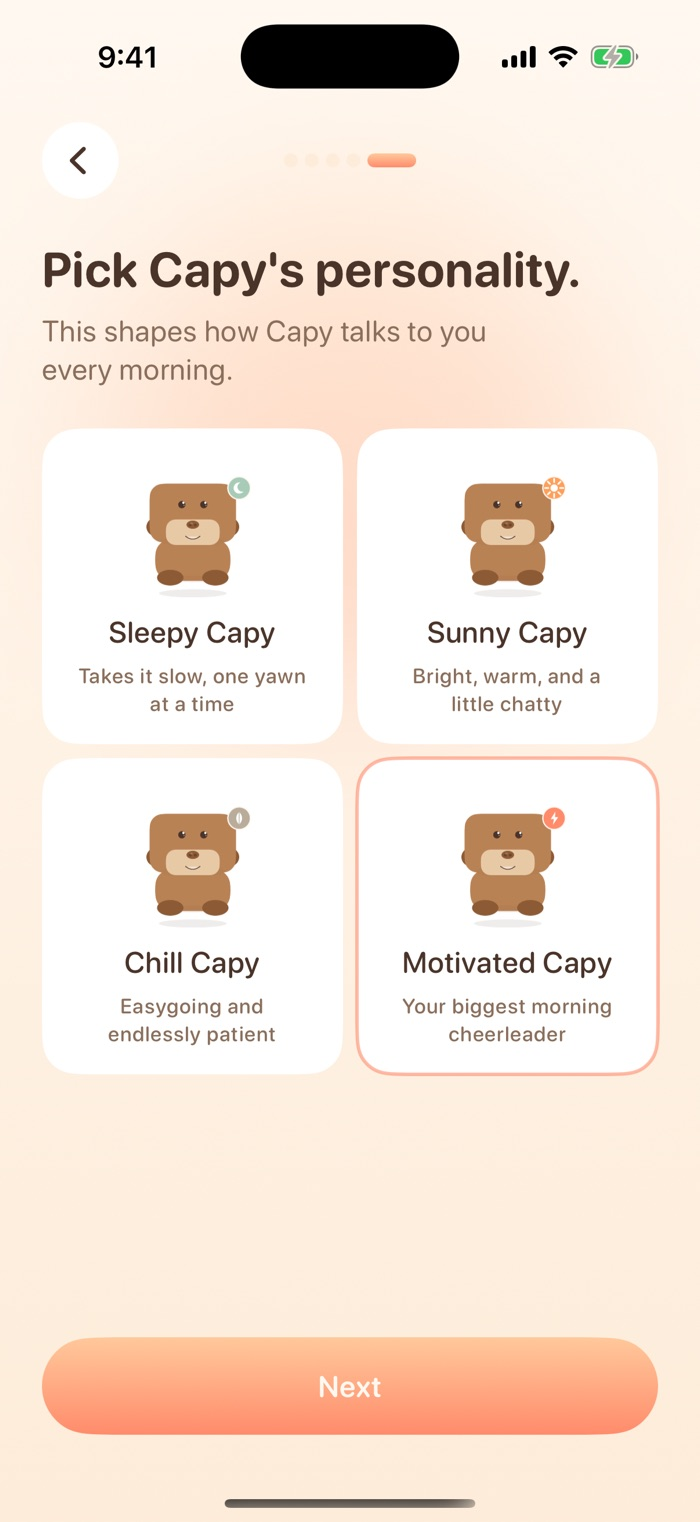
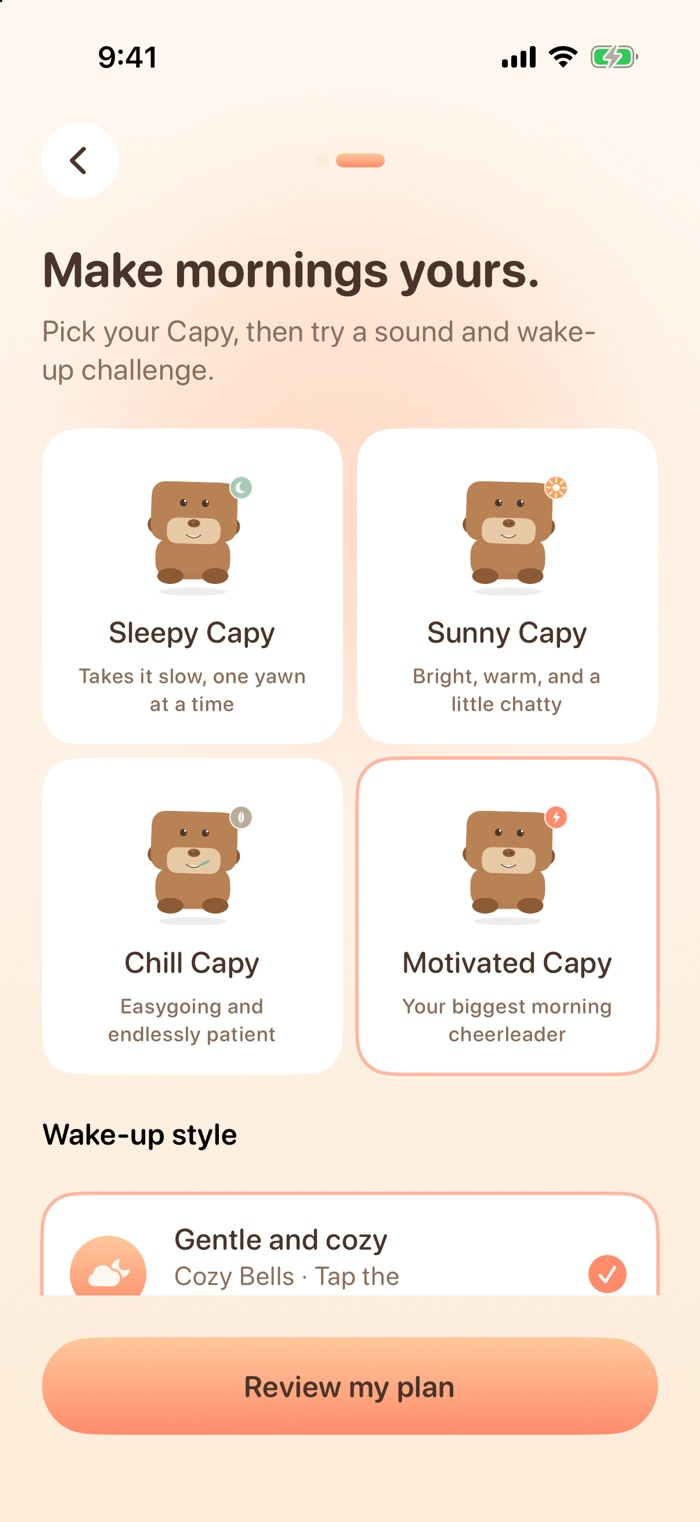
Update site for Rise & Capy 1.3: free to start, one-time Capy Pro
The app is now free to start with one alarm; the existing $9.99
one-time purchase becomes Capy Pro (unlimited alarms and the pattern,
shake, and question missions). Update the homepage hero, price tile,
pricing section, FAQ, structured data, Terms, and Privacy to match, and
note that earlier buyers already have Pro.

Replace the welcome, personality, and paywall screenshots with the
1.3 screens, and show "Free" plus a "Pay once for Pro" chip in the
reel's pricing scene. The reel audio is unchanged.

diff --git a/index.html b/index.html
@@ -4,11 +4,11 @@
     <meta charset="UTF-8" />
     <meta name="viewport" content="width=device-width, initial-scale=1.0, viewport-fit=cover" />
     <title>Rise &amp; Capy — A calmer capybara alarm clock for iPhone</title>
-    <meta name="description" content="Rise &amp; Capy is a cozy capybara alarm clock for iPhone with real AlarmKit alarms, playful wake-up missions, and four capybara personalities. Free to download; one $9.99 purchase unlocks it for good — no subscription, no account, no ads." />
+    <meta name="description" content="Rise &amp; Capy is a cozy capybara alarm clock for iPhone with real AlarmKit alarms, playful wake-up missions, and four capybara personalities. Free to start with one alarm; a one-time $9.99 Capy Pro upgrade unlocks unlimited alarms and every mission. No subscription, no account, no ads." />
     <meta name="theme-color" content="#FFF8F0" media="(prefers-color-scheme: light)" />
     <meta name="theme-color" content="#1B1410" media="(prefers-color-scheme: dark)" />
     <meta property="og:title" content="Rise & Capy — A calmer capybara alarm clock for iPhone" />
-    <meta property="og:description" content="Real AlarmKit alarms, playful wake-up missions, and four capybara personalities. Now on the App Store — pay once, no subscription." />
+    <meta property="og:description" content="Real AlarmKit alarms, playful wake-up missions, and four capybara personalities. Free to start on the App Store; Pro is one payment, no subscription." />
     <meta property="og:type" content="website" />
     <meta property="og:site_name" content="Rise & Capy" />
     <meta property="og:url" content="https://randyventures.github.io/RiseAndCapySite/" />
@@ -29,7 +29,7 @@
         "name": "Rise & Capy",
         "operatingSystem": "iOS 26.0 or later",
         "applicationCategory": "LifestyleApplication",
-        "description": "A cozy capybara alarm clock for iPhone. Real AlarmKit alarms, playful wake-up missions, and four capybara personalities, all running locally with no account required. Free to download with a one-time $9.99 unlock.",
+        "description": "A cozy capybara alarm clock for iPhone. Real AlarmKit alarms, playful wake-up missions, and four capybara personalities, all running locally with no account required. Free to start with one alarm; Capy Pro is a one-time $9.99 upgrade.",
         "url": "https://randyventures.github.io/RiseAndCapySite/",
         "downloadUrl": "https://apps.apple.com/app/id6804264261",
         "installUrl": "https://apps.apple.com/app/id6804264261",
@@ -40,7 +40,7 @@
           "Real system alarms via Apple's AlarmKit",
           "Playful wake-up missions: tap, pattern, shake, question",
           "Four capybara personalities with distinct moods and copy",
-          "One-time $9.99 unlock, no subscription",
+          "Free to start with one alarm; one-time $9.99 Capy Pro upgrade, no subscription",
           "No account, no ads, no data leaves your phone"
         ]
       }
@@ -520,7 +520,7 @@
                 <span><small>Download on the</small><b>App Store</b></span>
               </a>
             </div>
-            <div class="hero-meta"><span>Pay once, no subscription</span><span>No account</span><span>No ads</span></div>
+            <div class="hero-meta"><span>Free to start</span><span>No subscription</span><span>No account</span></div>
           </div>
         </div>
 
@@ -557,8 +557,8 @@
 
       <div class="marquee" aria-hidden="true">
         <div class="marquee-track">
-          <span>Real AlarmKit alarms</span><span>Rings through Silent</span><span>Wake-up missions</span><span>Four capy personalities</span><span>Pay once, keep forever</span><span>No account</span><span>Speaks 16 languages</span><span>Morning streaks</span>
-          <span>Real AlarmKit alarms</span><span>Rings through Silent</span><span>Wake-up missions</span><span>Four capy personalities</span><span>Pay once, keep forever</span><span>No account</span><span>Speaks 16 languages</span><span>Morning streaks</span>
+          <span>Real AlarmKit alarms</span><span>Rings through Silent</span><span>Wake-up missions</span><span>Four capy personalities</span><span>Free to start</span><span>No account</span><span>Speaks 16 languages</span><span>Morning streaks</span>
+          <span>Real AlarmKit alarms</span><span>Rings through Silent</span><span>Wake-up missions</span><span>Four capy personalities</span><span>Free to start</span><span>No account</span><span>Speaks 16 languages</span><span>Morning streaks</span>
         </div>
       </div>
 
@@ -594,9 +594,9 @@
             <div class="streak" aria-hidden="true"><i class="on">M</i><i class="on">T</i><i class="on">W</i><i class="on">T</i><i class="today">F</i><i>S</i><i>S</i></div>
           </article>
           <article class="tile t-price" data-reveal style="--d:.16s">
-            <h3>Pay once. That's it.</h3>
-            <div class="big-price">$9.99</div>
-            <p>No subscription, no trial that quietly converts, no renewals.</p>
+            <h3>Start free. Go Pro once.</h3>
+            <div class="big-price">Free</div>
+            <p>One real alarm free, forever. Capy Pro is a one-time $9.99 upgrade. No subscription, no renewals.</p>
           </article>
           <article class="tile t-private" data-reveal>
             <div><h3>Private by design</h3><p>Everything lives on your iPhone.</p></div>
@@ -613,7 +613,7 @@
             <span class="kicker">Try a wake-up mission</span>
             <div class="section-head" style="margin-bottom:0">
               <h2>Go on, wake Capy up.</h2>
-              <p>This is the Tap mission, one of four. In the app it stands between you and the snooze button. Here it's just for fun: tap the sleepy capybara five times.</p>
+              <p>This is the Tap mission, one of four, and it's included free. In the app it stands between you and the snooze button. Here it's just for fun: tap the sleepy capybara five times.</p>
             </div>
           </div>
           <div class="try-card" id="tryCard" data-reveal style="--d:.1s">
@@ -657,8 +657,8 @@
           <h2>One cozy minute of setup. Then just sleep.</h2>
         </div>
         <div class="steps">
-          <div class="step" data-reveal><div class="num">1</div><h3>Tell Capy your vibe</h3><p>Your morning intention, wake time, days, wake-up style, and a capybara personality. About a minute, start to finish.</p></div>
-          <div class="step" data-reveal style="--d:.08s"><div class="num">2</div><h3>Set your first alarm</h3><p>Pick a sound, a snooze length, and an optional wake-up mission. Rise &amp; Capy schedules a real system alarm.</p></div>
+          <div class="step" data-reveal><div class="num">1</div><h3>Tell Capy your vibe</h3><p>Your wake time, repeat days, wake-up style, and a capybara personality. About a minute, start to finish.</p></div>
+          <div class="step" data-reveal style="--d:.08s"><div class="num">2</div><h3>Turn on your free alarm</h3><p>Allow alarm access and Rise &amp; Capy schedules a real system alarm. Want more alarms or tougher missions? Go Pro once.</p></div>
           <div class="step" data-reveal style="--d:.16s"><div class="num">3</div><h3>Wake up, for real</h3><p>The alarm rings, you complete your mission, Capy celebrates, and your morning streak grows.</p></div>
         </div>
       </section>
@@ -669,9 +669,9 @@
           <h2>Made with care, down to the last pixel.</h2>
         </div>
         <div class="screens" data-reveal>
-          <div class="phone"><img src="screenshot-personality.jpg" alt="Personality picker showing Sleepy, Sunny, Chill, and Motivated Capy" loading="lazy" /></div>
-          <div class="phone"><img src="screenshot-welcome.jpg" alt="Welcome screen with the Capy mascot: a calmer alarm clock with a capybara by your side" loading="lazy" /></div>
-          <div class="phone"><img src="screenshot-paywall.jpg" alt="Unlock screen showing the $9.99 one-time purchase with Motivated Capy" loading="lazy" /></div>
+          <div class="phone"><img src="screenshot-personality.jpg" alt="Make mornings yours: pick Sleepy, Sunny, Chill, or Motivated Capy and a wake-up style" loading="lazy" /></div>
+          <div class="phone"><img src="screenshot-welcome.jpg" alt="Welcome screen with the Capy mascot: free to start with one alarm" loading="lazy" /></div>
+          <div class="phone"><img src="screenshot-free-pro.jpg" alt="Free vs Pro screen: one alarm free, or unlock Pro once for $9.99" loading="lazy" /></div>
         </div>
       </section>
 
@@ -679,9 +679,9 @@
         <div class="pricing" data-reveal>
           <div>
             <span class="kicker">Simple pricing</span>
-            <div class="amount">$9.99</div>
-            <h2>One purchase. Every capy, forever.</h2>
-            <p>Free to download, then one $9.99 purchase unlocks Rise &amp; Capy for good. No subscription, no trial that converts, no recurring billing.</p>
+            <div class="amount">Free</div>
+            <h2>Start free. Go Pro once.</h2>
+            <p>Your first alarm is free, with every Capy, voice, and sound. Capy Pro is a one-time $9.99 upgrade for unlimited alarms and every wake-up mission. No subscription, no trial that converts, no recurring billing.</p>
             <a class="appstore" href="https://apps.apple.com/app/id6804264261" aria-label="Download Rise & Capy on the App Store">
               <svg viewBox="0 0 24 24" fill="currentColor" aria-hidden="true"><path d="M16.37 12.6c-.02-2.3 1.88-3.4 1.96-3.46-1.07-1.56-2.73-1.78-3.32-1.8-1.41-.14-2.76.83-3.47.83-.72 0-1.82-.81-2.99-.79-1.54.02-2.96.9-3.75 2.27-1.6 2.78-.41 6.89 1.15 9.14.76 1.1 1.67 2.34 2.86 2.3 1.15-.05 1.58-.74 2.97-.74 1.38 0 1.77.74 2.98.72 1.24-.02 2.02-1.12 2.77-2.23.87-1.28 1.23-2.52 1.25-2.58-.03-.01-2.39-.92-2.41-3.66zM14.1 5.86c.63-.77 1.06-1.83.94-2.89-.91.04-2.01.61-2.66 1.37-.58.67-1.1 1.76-.96 2.8 1.01.08 2.05-.52 2.68-1.28z"/></svg>
               <span><small>Download on the</small><b>App Store</b></span>
@@ -689,10 +689,11 @@
             <p class="fine">Requires iPhone with iOS 26 or later. Restore Purchases is available if you reinstall or switch devices.</p>
           </div>
           <ul class="checks">
-            <li>Unlimited alarms with Capy by your side</li>
-            <li>All four wake-up missions</li>
-            <li>Every Capy personality and sound</li>
-            <li>All future updates included</li>
+            <li>Free: one real alarm, every Capy, voice, and sound</li>
+            <li>Free: the Tap mission and your morning streak</li>
+            <li>Pro, $9.99 once: unlimited alarms</li>
+            <li>Pro: pattern, shake, and question missions</li>
+            <li>Bought it before? You already have Pro.</li>
             <li>No account. Everything stays on your phone.</li>
           </ul>
         </div>
@@ -706,7 +707,7 @@
             <p>The short versions. The full list is on the <a href="faq/">FAQ page</a>, or <a href="mailto:randyventures06@gmail.com?subject=Rise%20%26%20Capy%20Support">email us</a>.</p>
           </div>
           <div data-reveal style="--d:.08s">
-            <details open><summary>Is Rise &amp; Capy a subscription?</summary><p>No. The download is free, and a single $9.99 purchase unlocks the app for life. There's no trial that quietly converts and no recurring charge.</p></details>
+            <details open><summary>Is Rise &amp; Capy a subscription?</summary><p>No. It's free to start with one alarm. Capy Pro is a single $9.99 purchase that unlocks unlimited alarms and every mission for life. There's no trial that quietly converts and no recurring charge.</p></details>
             <details><summary>Will it wake me up through Silent mode?</summary><p>Yes. Alarms are scheduled through Apple's AlarmKit, the same system behind the built-in Clock app, so they ring through Silent and most Focus modes.</p></details>
             <details><summary>Do I need to create an account?</summary><p>No. There's no sign-up and no server. Your alarms, preferences, and streak are stored locally on your iPhone.</p></details>
             <details><summary>Can I turn wake-up missions off?</summary><p>Yes. Each alarm's mission is optional. Set it to "None" if you'd rather just tap to dismiss.</p></details>
@@ -744,8 +745,8 @@
     </footer>
 
     <script src="reel/gsap.min.js"></script>
-    <script src="reel/capy.js?v=4"></script>
-    <script src="reel/reel.js?v=4"></script>
+    <script src="reel/capy.js?v=5"></script>
+    <script src="reel/reel.js?v=5"></script>
     <script>
       (function () {
         document.body.classList.remove("no-js");

diff --git a/terms/index.html b/terms/index.html
@@ -4,12 +4,12 @@
     <meta charset="UTF-8" />
     <meta name="viewport" content="width=device-width, initial-scale=1.0" />
     <title>Rise &amp; Capy — Terms of Use</title>
-    <meta name="description" content="Terms of Use for Rise & Capy, including the one-time purchase, alarm reliability, and acceptable use." />
+    <meta name="description" content="Terms of Use for Rise & Capy, including the free plan, the one-time Capy Pro purchase, alarm reliability, and acceptable use." />
     <link rel="canonical" href="https://randyventures.github.io/RiseAndCapySite/terms/" />
     <meta property="og:type" content="website" />
     <meta property="og:site_name" content="Rise & Capy" />
     <meta property="og:title" content="Rise & Capy — Terms of Use" />
-    <meta property="og:description" content="The one-time purchase, alarm reliability, and acceptable use for Rise & Capy." />
+    <meta property="og:description" content="The free plan, the one-time Capy Pro purchase, alarm reliability, and acceptable use for Rise & Capy." />
     <meta property="og:url" content="https://randyventures.github.io/RiseAndCapySite/terms/" />
     <meta name="twitter:card" content="summary" />
     <meta name="theme-color" content="#FFF8F0" media="(prefers-color-scheme: light)" />
@@ -138,7 +138,7 @@
 
     <main>
       <div class="wrap">
-        <span class="meta">Last updated: August 22, 2026</span>
+        <span class="meta">Last updated: October 6, 2026</span>
         <h1>Terms of Use</h1>
         <p class="lede">
           These Terms of Use govern your use of the Rise &amp; Capy app and this website, operated by Randy Ventures.
@@ -150,7 +150,7 @@
             <li><a href="#acceptance">Acceptance</a></li>
             <li><a href="#service">Service description</a></li>
             <li><a href="#reliability">Alarm reliability</a></li>
-            <li><a href="#purchase">The Rise &amp; Capy purchase</a></li>
+            <li><a href="#purchase">Free plan and Capy Pro</a></li>
             <li><a href="#acceptable">Acceptable use</a></li>
             <li><a href="#third-party">Third-party services</a></li>
             <li><a href="#disclaimers">Disclaimers</a></li>
@@ -185,9 +185,10 @@
           </section>
 
           <section id="purchase">
-            <h2>The Rise &amp; Capy purchase</h2>
+            <h2>Free plan and Capy Pro</h2>
             <ul>
-              <li>Rise &amp; Capy is unlocked with a single non-consumable purchase of $9.99. This is a one-time purchase, not a subscription, and it does not renew or recur.</li>
+              <li>Rise &amp; Capy is free to download and includes a free plan with one alarm. Capy Pro, which adds unlimited alarms and additional wake-up missions, is unlocked with a single non-consumable purchase of $9.99. This is a one-time purchase, not a subscription, and it does not renew or recur.</li>
+              <li>Purchases of the Rise &amp; Capy full unlock made before the free plan was introduced include Capy Pro.</li>
               <li>Purchases are billed and processed by Apple through the App Store, and entitlement is verified using RevenueCat.</li>
               <li>Refunds and billing disputes are handled by Apple under standard App Store policies. We do not process payments or refunds directly.</li>
               <li>You can restore your purchase from Settings inside the app if you reinstall the app or switch to a new device signed in with the same Apple Account.</li>

diff --git a/privacy/index.html b/privacy/index.html
@@ -138,7 +138,7 @@
 
     <main>
       <div class="wrap">
-        <span class="meta">Last updated: August 22, 2026</span>
+        <span class="meta">Last updated: October 6, 2026</span>
         <h1>Privacy Policy</h1>
         <p class="lede">
           This Privacy Policy explains what information Rise &amp; Capy handles when you use the app and this website. The short version: your alarms, preferences, and streak never leave your iPhone, and the only outside service involved is Apple's purchase processing through RevenueCat.
@@ -185,7 +185,7 @@
             <p>The only information that leaves your iPhone is what's required to process your one-time purchase:</p>
             <ul>
               <li>
-                <strong>Purchases (RevenueCat).</strong> When you buy the Rise &amp; Capy full unlock, Apple processes the payment and RevenueCat, our purchase-management provider, receives purchase receipts, transaction identifiers, and an anonymous app-generated user ID so the app can verify your entitlement. We never see your payment details. See RevenueCat's privacy policy at <a href="https://www.revenuecat.com/privacy">revenuecat.com/privacy</a>.
+                <strong>Purchases (RevenueCat).</strong> When you buy Capy Pro (the Rise &amp; Capy full unlock), Apple processes the payment and RevenueCat, our purchase-management provider, receives purchase receipts, transaction identifiers, and an anonymous app-generated user ID so the app can verify your entitlement. We never see your payment details. See RevenueCat's privacy policy at <a href="https://www.revenuecat.com/privacy">revenuecat.com/privacy</a>.
               </li>
               <li>
                 <strong>Apple.</strong> The App Store handles billing and standard app diagnostics per your iOS settings. Apple's AlarmKit framework schedules your alarms directly with iOS — this happens on-device and is not something we or RevenueCat can see.
@@ -202,7 +202,7 @@
             <ul>
               <li>To schedule and present your alarms through Apple's AlarmKit.</li>
               <li>To remember your preferences, alarms, and streak between app launches.</li>
-              <li>To verify your one-time purchase entitlement through RevenueCat so the full app stays unlocked.</li>
+              <li>To verify your one-time Capy Pro purchase through RevenueCat so Pro features stay unlocked.</li>
               <li>To respond to support requests you send us.</li>
             </ul>
           </section>

diff --git a/faq/index.html b/faq/index.html
@@ -24,7 +24,7 @@
           {
             "@type": "Question",
             "name": "Is Rise & Capy a subscription?",
-            "acceptedAnswer": { "@type": "Answer", "text": "No. Rise & Capy is a single non-consumable purchase of $9.99. There is no trial that converts, no recurring charge, and no subscription of any kind." }
+            "acceptedAnswer": { "@type": "Answer", "text": "No. Rise & Capy is free to start with one alarm. Capy Pro is a single non-consumable purchase of $9.99. There is no trial that converts, no recurring charge, and no subscription of any kind." }
           },
           {
             "@type": "Question",
@@ -182,12 +182,17 @@
         <article>
           <section id="pricing">
             <h2>Is Rise &amp; Capy a subscription?</h2>
-            <p>No. It's a single $9.99 purchase for lifetime access to the full app. There's no free trial that quietly converts, no weekly or annual plan, and no recurring charge of any kind.</p>
+            <p>No. Rise &amp; Capy is free to start, and Capy Pro is a single $9.99 purchase that lasts for life. There's no free trial that quietly converts, no weekly or annual plan, and no recurring charge of any kind.</p>
           </section>
 
           <section>
-            <h2>What do I get for $9.99?</h2>
-            <p>Everything. Unlimited alarms, every capybara personality, every sound, every wake-up mission, and all future updates to the app. There's no separate "premium" tier — one purchase unlocks the complete app.</p>
+            <h2>What's free, and what does Pro add?</h2>
+            <p>Free: one real alarm with every capybara personality, voice, and sound, plus the Tap mission and your morning streak. Capy Pro ($9.99, once) adds unlimited alarms and the pattern, shake, and question missions, plus future Pro features. Your free alarm never stops working, even if you never upgrade.</p>
+          </section>
+
+          <section>
+            <h2>I bought Rise &amp; Capy before it was free to start. Do I need to buy Pro?</h2>
+            <p>No. Your original purchase is Capy Pro. You already have unlimited alarms and every mission. If it ever looks locked, tap Restore Purchases in Settings.</p>
           </section>
 
           <section>

diff --git a/reel/reel.js b/reel/reel.js
@@ -11,7 +11,7 @@
 
   const CHAPTERS = [
     { t: 0, label: "Mornings" }, { t: 5.25, label: "Sunrise" }, { t: 8.45, label: "Real alarms" },
-    { t: 11.0, label: "Missions" }, { t: 15.05, label: "Personalities" }, { t: 23.1, label: "Pay once" },
+    { t: 11.0, label: "Missions" }, { t: 15.05, label: "Personalities" }, { t: 23.1, label: "Free + Pro" },
     { t: 27.1, label: "App Store" },
   ];
 
@@ -58,7 +58,7 @@
 
     return `
 <svg class="reel-svg" viewBox="0 0 1600 900" preserveAspectRatio="xMidYMid slice" xmlns="${NS}" role="img"
-  aria-label="Animated reel: a sleepy capybara is woken by a friendly alarm at sunrise, then Rise & Capy's features, four personalities, one-time price, and App Store availability." font-family="${FONT}">
+  aria-label="Animated reel: a sleepy capybara is woken by a friendly alarm at sunrise, then Rise & Capy's features, four personalities, free start with a one-time Pro upgrade, and App Store availability." font-family="${FONT}">
   <defs>
     <linearGradient id="rSky" x1="0" y1="0" x2="0" y2="1">
       <stop id="rSky0" offset="0" stop-color="${SKY.night[0]}"/><stop id="rSky1" offset=".58" stop-color="${SKY.night[1]}"/><stop id="rSky2" offset="1" stop-color="${SKY.night[2]}"/>
@@ -165,7 +165,7 @@
     <g id="rBubbles"></g>
 
     <!-- price -->
-    <text id="rPrice" x="${CX}" y="380" text-anchor="middle" font-size="230" font-weight="700" fill="url(#rPriceGrad)" opacity="0">$9.99</text>
+    <text id="rPrice" x="${CX}" y="380" text-anchor="middle" font-size="230" font-weight="700" fill="url(#rPriceGrad)" opacity="0">Free</text>
     <g id="rChips"></g>
 
     <!-- hero capy -->
@@ -451,7 +451,7 @@
     paw(capyEl, "l", 23.45, 60, 0.3);
     paw(capyEl, "r", 23.45, 60, 0.3);
     const chips = q("#rChips");
-    const chipText = ["Pay once", "No subscription", "No account"];
+    const chipText = ["Pay once for Pro", "No subscription", "No account"];
     const chipW = chipText.map((s) => measure(s, 30, 600) + 96);
     const gap = 22;
     let cx = CX - (chipW.reduce((a, b) => a + b) + gap * 2) / 2;

diff --git a/README.md b/README.md
@@ -13,7 +13,7 @@ terms/index.html     Terms of Use
 faq/index.html       FAQ
 sitemap.xml
 icon.png, apple-touch-icon.png, favicon-32.png, favicon-64.png   generated from the app's real icon
-screenshot-*.jpg      real app screenshots (welcome, personality picker, paywall)
+screenshot-*.jpg      real app screenshots (welcome, personality picker, Free vs Pro)
 ```
 
 Plain HTML/CSS, no build step, no framework — same convention as the other Randy Ventures app sites (GulpSite, FamilyStopSite, etc).
@@ -48,7 +48,7 @@ When you change `reel/*.js`, bump the `?v=` on its `<script>` tag in `index.html
 
 ## Keeping it in sync with the app
 
-- Pricing: free download with a hard paywall; one $9.99 non-consumable purchase unlocks the app.
+- Pricing (app 1.3+): free plan with one alarm, every Capy, voice and sound, and the Tap mission. Capy Pro is the existing one-time $9.99 non-consumable: unlimited alarms plus the pattern, shake, and question missions. Earlier buyers have Pro. The reel's voiceover still says "Pay once. No subscription. No account." (true of Pro), so its visuals read "Free" with a "Pay once for Pro" chip.
 - Personality copy, colors, badge glyphs, and the spoken lines come from `CapyPersonality.swift`,
   `CapyPersonalityBadge.swift`, and `Resources/Audio/voice_en_*.m4a` in the app repo.
 - Update `sitemap.xml`'s `<lastmod>` dates and the "Last updated" text in privacy/terms/faq whenever their content changes.
